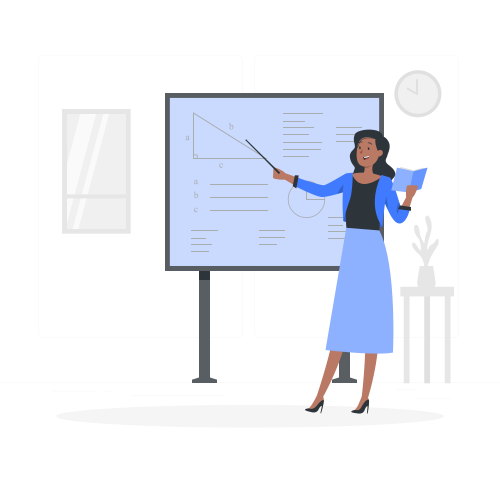
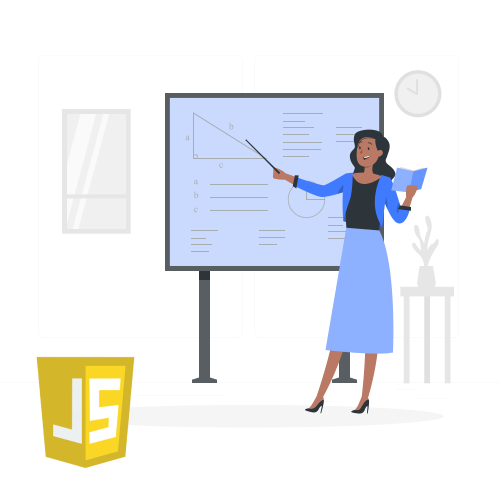
update post images

Changed region(s): [[0.06, 0.69, 0.27, 0.96]]

diff --git a/views/NEW-POST-CREATE.html b/views/NEW-POST-CREATE.html
@@ -49,6 +49,7 @@
                         <p class="table-of-contents-entry"><a href="#StatelessComponent">Stateless Component</a></p>
                         <p class="table-of-contents-entry"><a href="#StatefulComponent">ES6 Stateful Component</a></p>
                         <p class="table-of-contents-entry"><a href="#setState">setState()</a></p>
+                        <p class="table-of-contents-entry"><a href="#counter">Simple Counter</a></p>
                         <p class="table-of-contents-entry"><a href="#sources">Sources</a></p>
                     </div>
                 </div>
@@ -90,8 +91,11 @@ const <span class="method"><span class="clr-yellow">NewComponent</span> = functi
                 component
                 has now access to React features, for example local state or hooks. To make sure that the component is
                 initialized properly, we use super() to call the constructor of React.Component class.</p>
-                <p class="entry-content">To create <i>state</i> in a React component you need to declare a state property as a JavaScript object in its constructor (<span class="clr-turq">this.state = { key: "value"}</span>). State can be updated and rendered in the UI as well as passed as props to child components.</p>
-                <p class="entry-content">React uses what is called a <i>virtual DOM</i>, to keep track of changes behind the scenes. If the data of the state changes the component is rerendered.</p>
+            <p class="entry-content">To create <i>state</i> in a React component you need to declare a state property as
+                a JavaScript object in its constructor (<span class="clr-turq">this.state = { key: "value"}</span>).
+                State can be updated and rendered in the UI as well as passed as props to child components.</p>
+            <p class="entry-content">React uses what is called a <i>virtual DOM</i>, to keep track of changes behind the
+                scenes. If the data of the state changes the component is rerendered.</p>
             <pre><code>class <span class="clr-yellow">NewComponent</span> extends <span class="clr-yellow">React.Component</span> {
     constructor(props) {
         super(props);
@@ -109,8 +113,8 @@ const <span class="method"><span class="clr-yellow">NewComponent</span> = functi
 }
 </code></pre>
 
-<p class="desc">We can also assign the state to a variable.</p>
-<pre><code>class <span class="clr-yellow">NewComponent</span> extends <span class="clr-yellow">React.Component</span> {
+            <p class="desc">We can also assign the state to a variable.</p>
+            <pre><code>class <span class="clr-yellow">NewComponent</span> extends <span class="clr-yellow">React.Component</span> {
     constructor(props) {
         super(props);
         <span class="clr-turq">this.state = { 
@@ -127,17 +131,71 @@ const <span class="method"><span class="clr-yellow">NewComponent</span> = functi
     }
 }
 </code></pre>
-<h2 class="entry-subtitle mt4" id="setState">setState()</h2>
-<p class="entry-content">setState( key: "value") is a method used for updating the state, where kezs are the state properties and the values are the updated state data.</p>
-<pre><code>
-this.setState({
+            <h2 class="entry-subtitle mt4" id="setState">setState()</h2>
+            <p class="entry-content">setState( key: "value") is a method used for updating the state, where keys are the
+                state properties and the values are the updated state data.</p>
+            <pre class="flex" style="gap: 3rem; flex-wrap: wrap"><code><span class="clr-turq">this.setState</span>({
     lastName: 'Esposito'
 });
+</code>
+<code><span class="clr-turq">this.setState</span>((state, props) => ({
+  counter: state.counter + props.increment
+}));
+</code>
+<code><span class="clr-turq">this.setState</span>(state => ({
+  counter: state.counter + 1
+}));
 </code></pre>
 
-<h4 class="entry-subtitle mt4" id="sources">Sources:.</h4>
-<p><a href="https://www.freecodecamp.org/">freeCodeCamp</a></p>
-<p><a href="https://react.dev/">React.dev</a></p>
+            <h2 class="entry-subtitle mt4" id="counter">Simple counter</h2>
+            <p class="entry-content">This is a simple counter example. The output will give us three buttons: one to
+                increment the counter by 1, one to decrement it by 1 and one to reset the counter.</p>
+            <pre><code>
+class <span class="clr-yellow">Counter</span> extends <span class="clr-yellow">React.Component</span> {
+  constructor(props) {
+    super(props);
+    <span class="clr-turq">this.state = {
+      count: 0
+    };</span>
+
+    this.increment = this.increment.bind(this);
+    this.decrement = this.decrement.bind(this);
+    this.reset = this.reset.bind(this);
+  }
+
+<span class="clr-pink">increment()</span> {
+      this.setState(state => ({
+        count: state.count + 1
+      }))     
+    }
+    
+<span class="clr-pink">decrement()</span> {
+      this.setState(state => ({
+        count: state.count - 1
+      }))     
+    }
+<span class="clr-pink">reset()</span> {
+      this.setState(state => ({
+        count: state.count = 0
+      }))     
+    }
+
+  render() {
+    return (
+      <span class="clr-orange">&lt;div&gt;
+        &lt;button className='inc' onClick={this.increment}&gt;Increment!&lt;/button&gt;
+        &lt;button className='dec' onClick={this.decrement}&gt;Decrement!&lt;/button&gt;
+        &lt;button className='reset' onClick={this.reset}&gt;Reset&lt;/button&gt;
+        &lt;h1&gt;Current Count: {this.state.count}&lt;/h1&gt;
+      &lt;/div&gt;</span>
+    );
+  }
+};
+</code></pre>
+
+            <h4 class="entry-subtitle mt4" id="sources">Sources:.</h4>
+            <p><a href="https://www.freecodecamp.org/">freeCodeCamp</a></p>
+            <p><a href="https://react.dev/">React.dev</a></p>
         </main>
 
 
